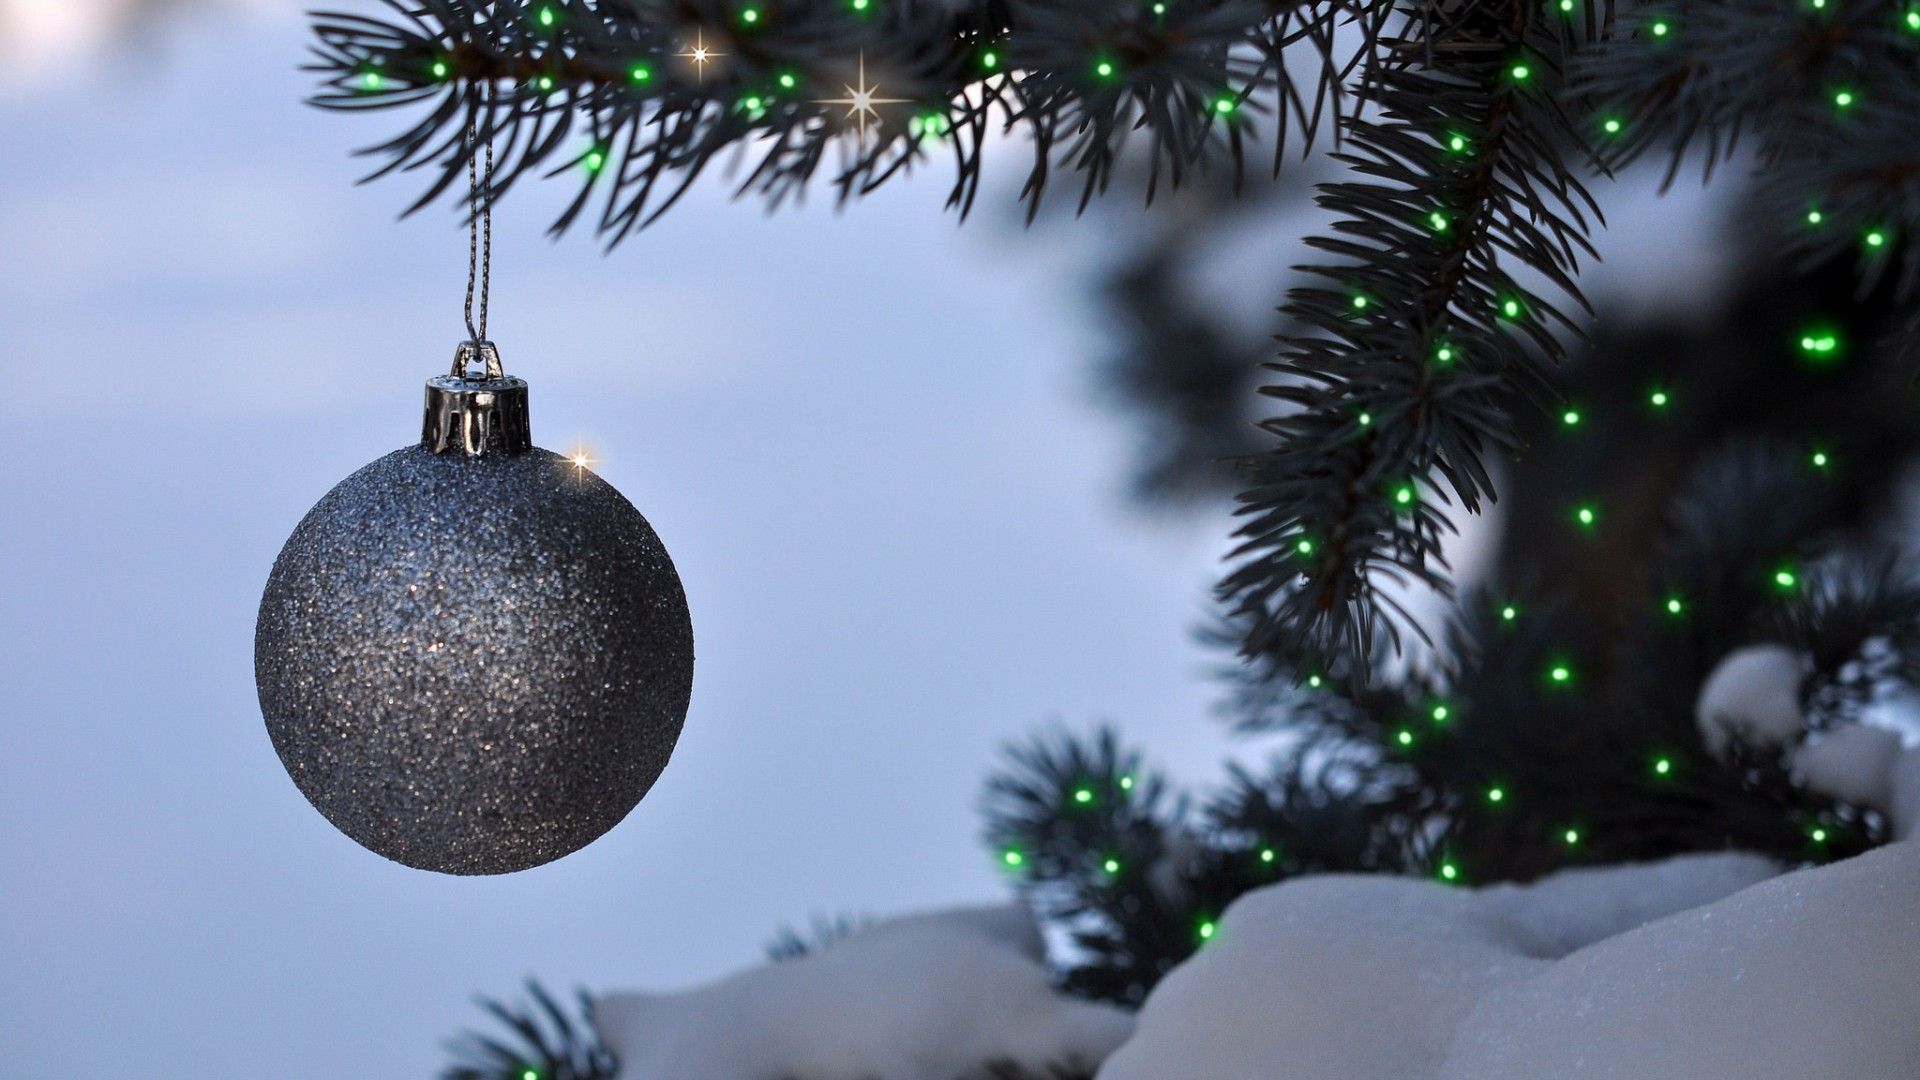
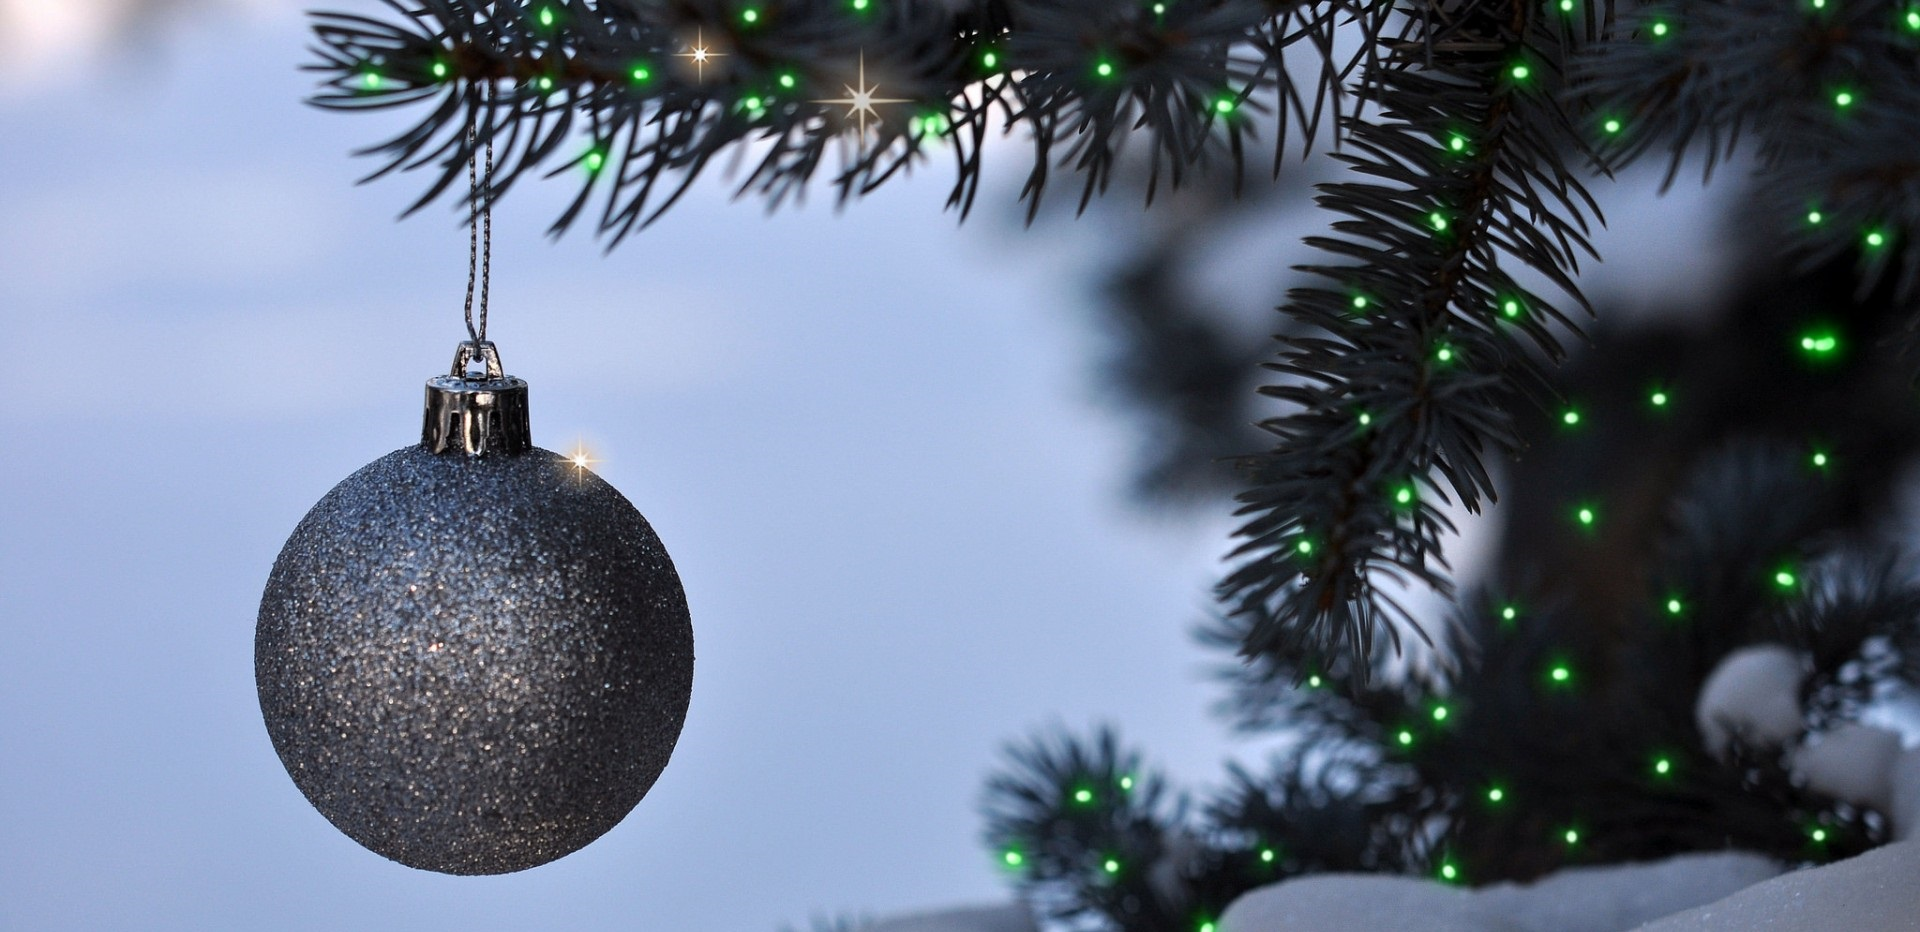
fixed landing

diff --git a/static/static_dev/css/landing.css b/static/static_dev/css/landing.css
@@ -10,7 +10,7 @@ html, body{
 
 .general-container{
     background: url('../img/3222.jpg');
-    height: 100%;
+    height: 80%;
 }
 
 .general-container form{

diff --git a/static/static_prod/css/landing.css b/static/static_prod/css/landing.css
@@ -10,7 +10,7 @@ html, body{
 
 .general-container{
     background: url('../img/3222.jpg');
-    height: 100%;
+    height: 80%;
 }
 
 .general-container form{
